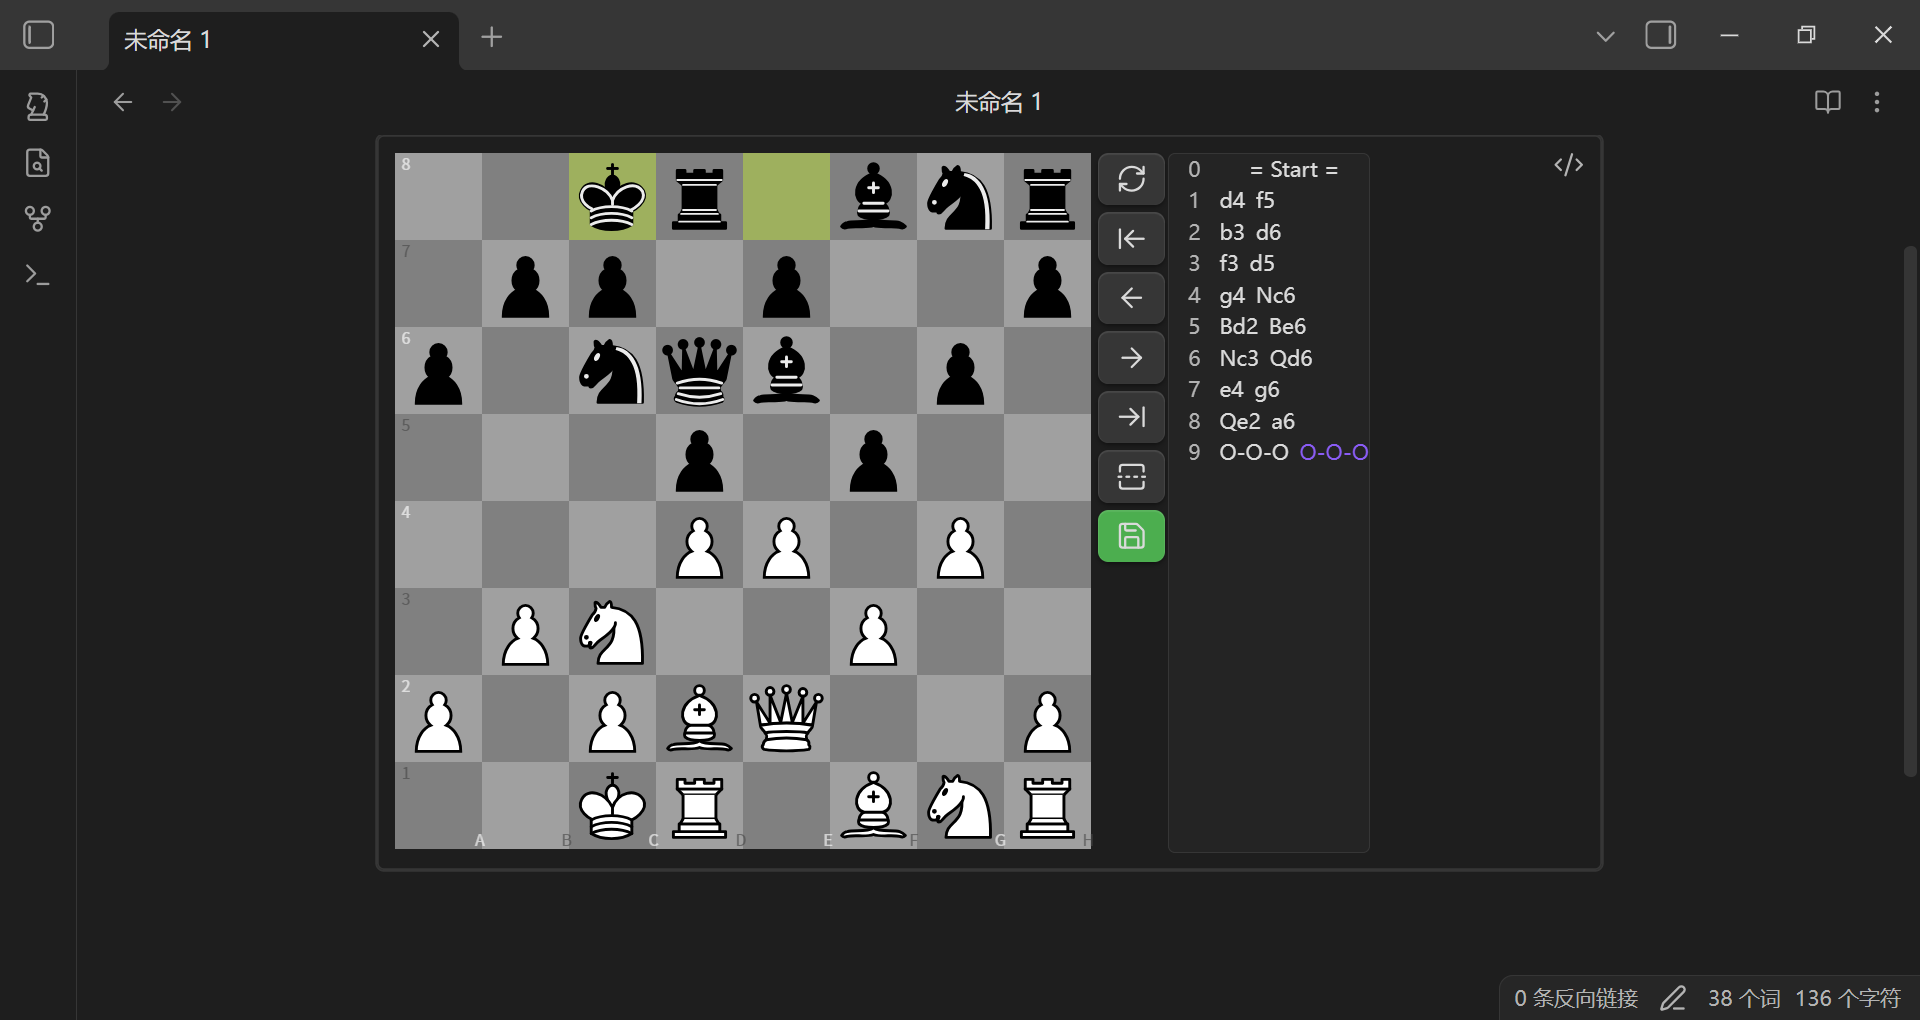
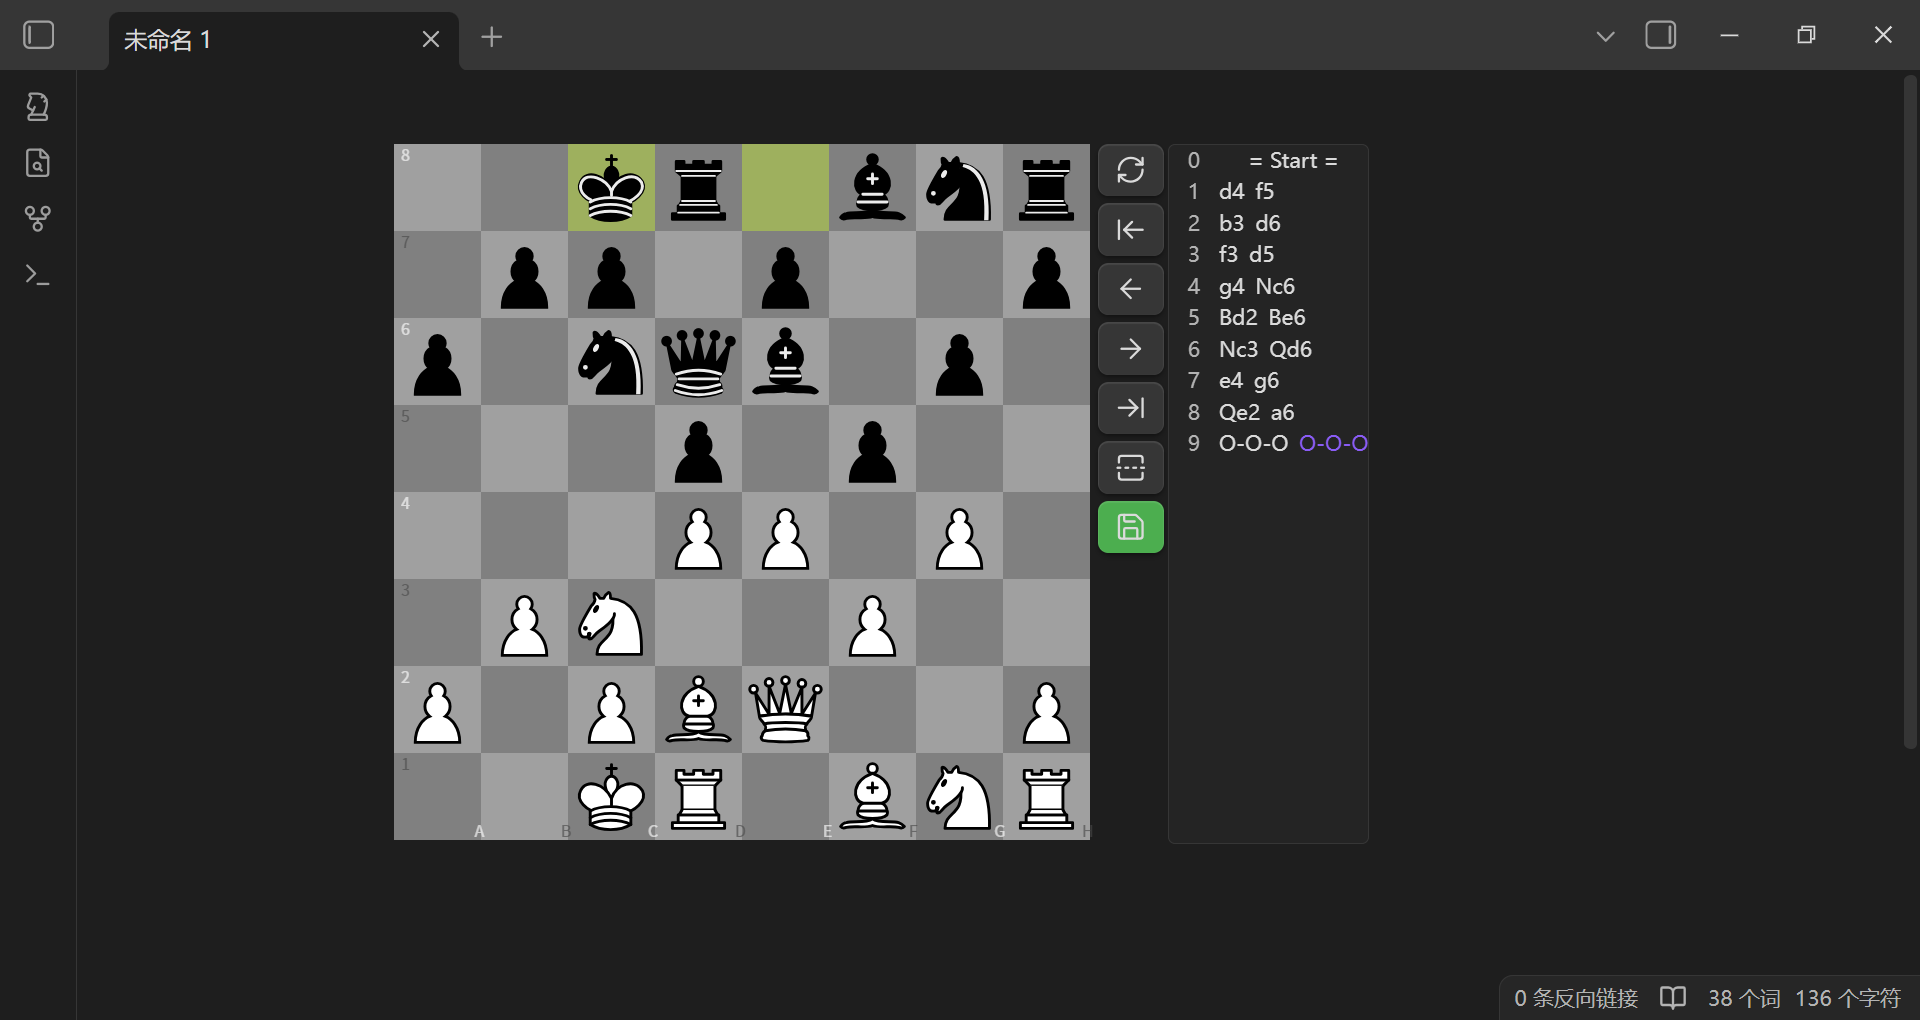
feat: 棋盘 box-shadow 显示当前行棋方 + README 多局说明
- Board.svelte: .turn-white/.turn-black 类用 box-shadow 标注行棋方底色
- README: 标注 .pgn 仅支持单局，多局建议用 AI 拆成 chess 代码块
- 项目名更新为 obsidian-chess-tree，版本号 1.0.0

diff --git a/src/lib/Board.svelte b/src/lib/Board.svelte
@@ -222,5 +222,14 @@
   .cg-wrap {
     flex-shrink: 0;
     aspect-ratio: 1;
+    border-radius: 2px;
+  }
+
+  .cg-wrap.turn-white {
+    box-shadow: 0 0 12px 3px rgba(255, 255, 255, 0.7);
+  }
+
+  .cg-wrap.turn-black {
+    box-shadow: 0 0 12px 3px rgba(0, 0, 0, 0.7);
   }
 </style>

diff --git a/README.md b/README.md
@@ -23,6 +23,18 @@
 - **切换视图**：支持通过文件菜单在文本视图和 PGN 视图间切换
 - **快速新建**：工具栏按钮一键新建 PGN 文件
 
+> **注意**：`.pgn` 文件仅支持单局棋谱。多局 PGN 文件建议借助 AI 添加代码块标记转换成 Markdown 格式：
+> ````markdown
+> ```chess
+> [Event "第一局"]
+> 1. e4 e5 2. Nf3 Nc6 1-0
+> ```
+> ```chess
+> [Event "第二局"]
+> 1. d4 d5 2. c4 e6 1/2-1/2
+> ```
+> ````
+
 ![PGN 文件](./IMAGE/PGN文件.png)
 
 ## 代码块
@@ -97,10 +109,10 @@
 
 ### 可选参数
 
-| 名称            | 值         | 描述                           |
-| --------------- | ---------- | ------------------------------ |
+| 名称            | 值         | 描述                            |
+| --------------- | ---------- | ------------------------------- |
 | `protected`/`p` | true/false | true 时保存按钮失效，默认 false |
-| `rotated`/`r`   | true/false | true 时倒转棋盘（黑方在下）    |
+| `rotated`/`r`   | true/false | true 时倒转棋盘（黑方在下）     |
 
 #### 示例
 
@@ -115,7 +127,7 @@ p:true
 
 - 冒号中英文皆可，`r` `p` 大小写皆可
 - FEN 两边带不带引号都行
-
+·
 ## 安装说明
 
 > ~~本插件已在 Obsidian 官方插件市场上线，搜索 "Chess" 即可安装。~~（尚未上架，待发布）

diff --git a/README.en.md b/README.en.md
@@ -23,6 +23,18 @@ Open `.pgn` files directly in Obsidian — the plugin registers a dedicated `.pg
 - **View Toggle**: Switch between text view and PGN view via the file menu
 - **Quick Create**: New PGN files from the ribbon button
 
+> **Note**: `.pgn` files only support single games. For multi-game PGN files, use AI to add code block markers and convert to Markdown format:
+> ````markdown
+> ```chess
+> [Event "Game 1"]
+> 1. e4 e5 2. Nf3 Nc6 1-0
+> ```
+> ```chess
+> [Event "Game 2"]
+> 1. d4 d5 2. c4 e6 1/2-1/2
+> ```
+> ````
+
 ![PGN File](./IMAGE/PGN文件.png)
 
 ## Code Blocks
